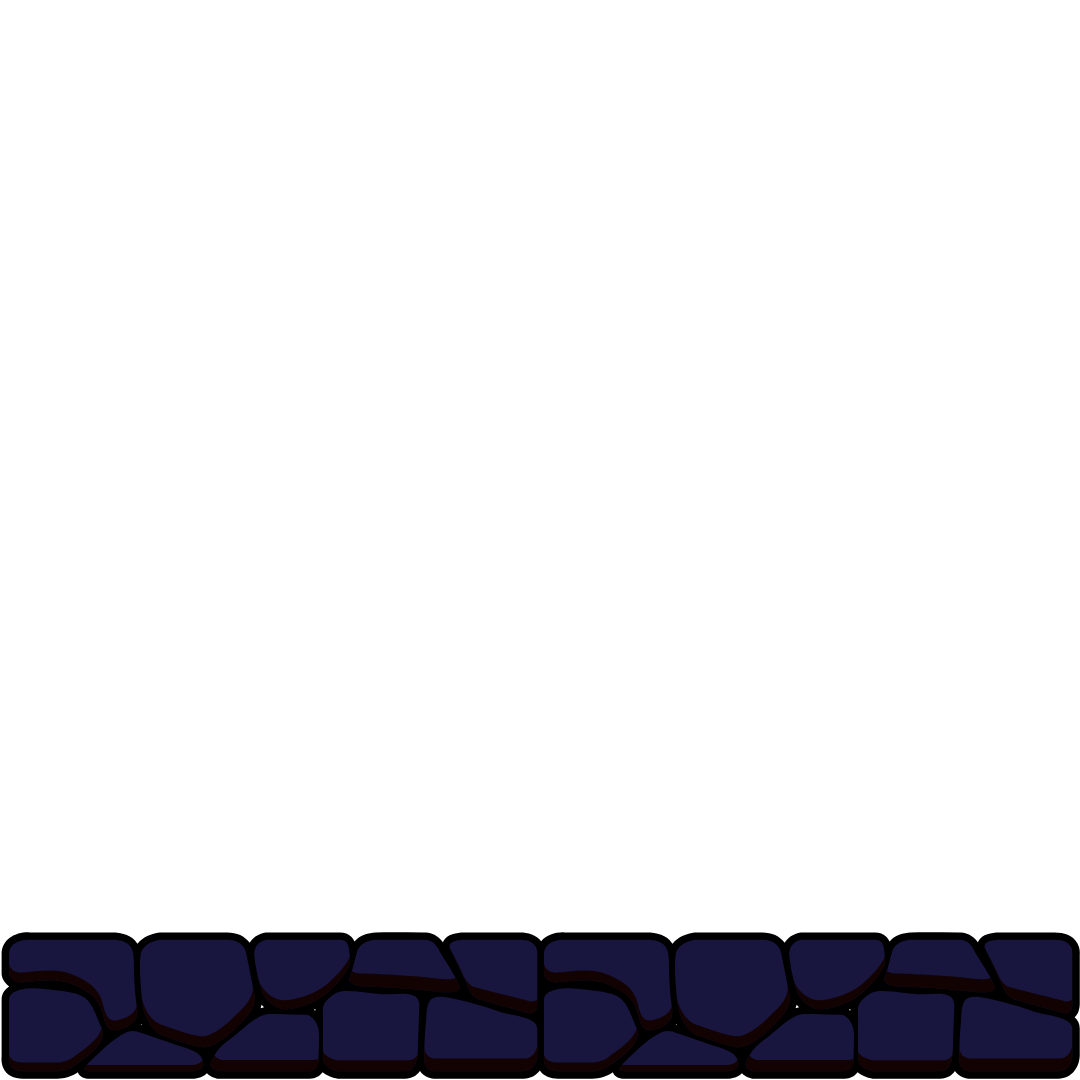
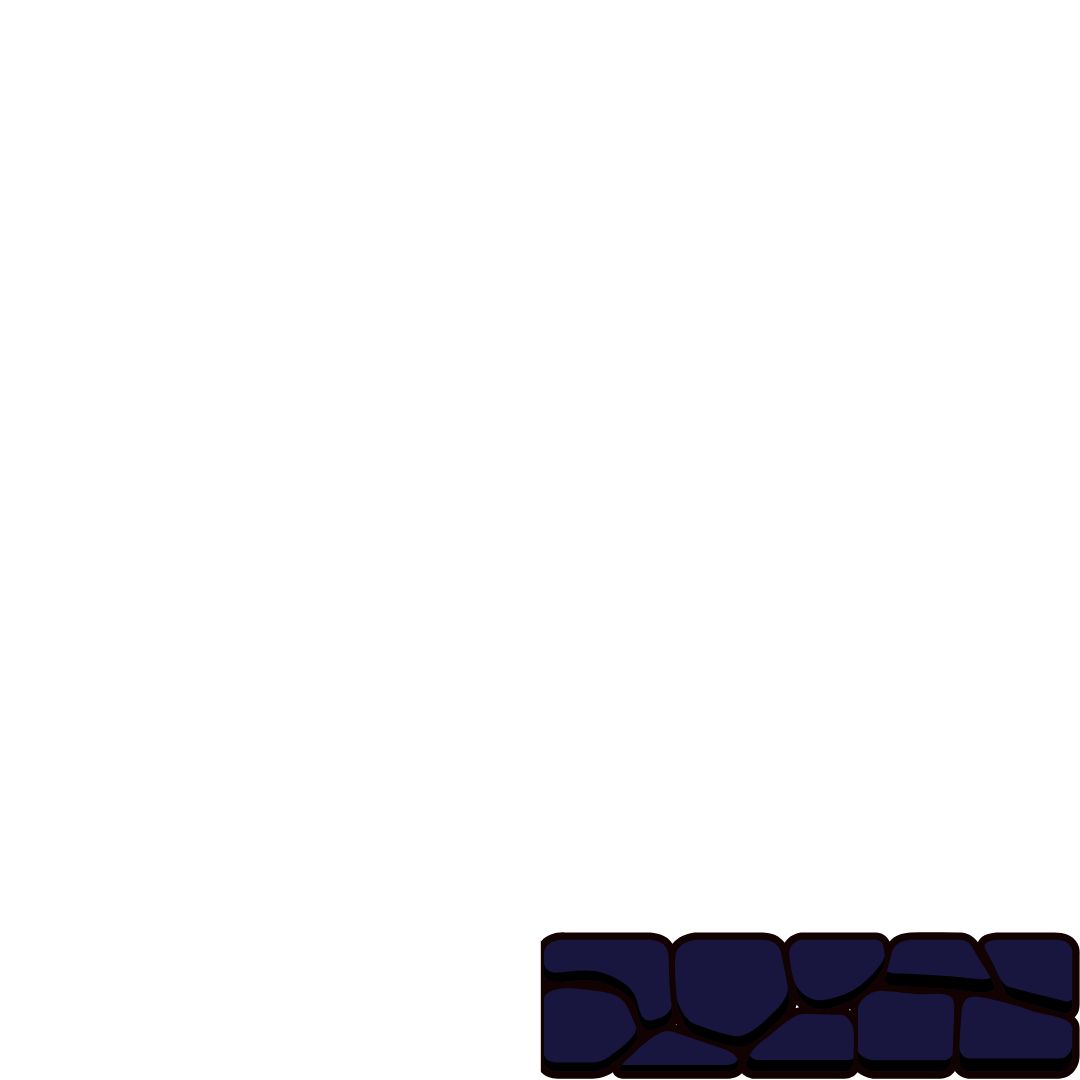
gui

Changed region(s): [[0.0, 0.8556, 0.5194, 1.0]]

diff --git a/telas/tela_game.py b/telas/tela_game.py
@@ -1,6 +1,8 @@
 import arcade
 import math
 import time
+
+import arcade.color
 from classes.classe_jogador import Jogador
 from classes.classe_dialogo import Dialogo
 
@@ -8,6 +10,7 @@ from classes.classe_dialogo import Dialogo
 class TelaGame(arcade.View):
     jogador = None
     dialogo = None
+    pause = False
     fundos = arcade.SpriteList()
 
     def __init__(self):
@@ -18,24 +21,32 @@ class TelaGame(arcade.View):
 
         self.som_fundo = arcade.load_sound(
             './assets/som_fundo.ogg', False)
-        #self.som_fundo.play(loop=True, speed=0.1, volume=0.5)
+        self.som_fundo.play(loop=True, speed=0.1, volume=0.2)
 
         self.sombra = arcade.Sprite('./assets/sombra.png', 0.4)
-        self.sombra.center_x = self.jogador.jSprite.center_x - 300
+        self.sombra.center_x = self.jogador.jSprite.center_x - 500
         self.sombra.center_y = self.jogador.jSprite.center_y + 50
 
         self.lista_cenario = arcade.SpriteList()
-        distancia_tile = 50
-        for i in range(-50, 150):
-            self.lista_cenario.append(
-                arcade.Sprite(
-                    "./assets/tile1.png",
-                    0.5,
-                    center_x=i*distancia_tile,
-                    center_y=300)
-            )
+        distancia_tile = 250
+        for i in range(-50, 50):
+            if i % 7 == 0:
+                self.lista_cenario.append(
+                    arcade.Sprite(
+                        "./assets/tile1.png",
+                        0.5,
+                        center_x=i*distancia_tile,
+                        center_y=290)
+                )
+            else:
+                self.lista_cenario.append(
+                    arcade.Sprite(
+                        "./assets/tile1.png",
+                        0.5,
+                        center_x=i*distancia_tile,
+                        center_y=100)
+                )
 
-        # self.fundo = arcade.load_texture("./assets/fundo_game.png")
         fundo_imagens = (
             "./assets/fundo_game.png",
             "./assets/fundo_game2.png",
@@ -76,20 +87,46 @@ class TelaGame(arcade.View):
         segundos = int(self.duracao_tempo % 60)
         tempo_texto = f"Tempo: {minutos:02}:{segundos:02}"
 
-        self.lista_cenario.draw()
         self.fundos.draw()
+        self.lista_cenario.draw()
 
+        # ===================== GUI ========================
         arcade.draw_text(tempo_texto,
                          self.camera.position[0] + self.window.width - 150,
                          self.camera.position[1] + self.window.height - 50,
-                         arcade.color.WHITE, 20,
+                         arcade.color.GRAY, 20,
                          anchor_x="center",
                          anchor_y="center")
+        arcade.draw_arc_filled(
+            self.camera.position[0] + self.window.width/8,
+            self.camera.position[1] + self.window.height/1.15,
+            150, 150,
+            arcade.color.RED,
+            0, self.jogador.vida
+        )
+        arcade.draw_arc_outline(
+            self.camera.position[0] + self.window.width/8,
+            self.camera.position[1] + self.window.height/1.15,
+            150, 150,
+            arcade.color.GRAY,
+            0, self.jogador.vidaTotal, 7
+        )
+        arcade.draw_texture_rectangle(
+            self.camera.position[0] + self.window.width/8,
+            self.camera.position[1] + self.window.height/1.15,
+            200, 200,
+            arcade.load_texture(
+                "./assets/personagem_avatar.png")
+            )
 
+        # ===================== GUI ========================
         self.camera.use()
         self.sombra.draw()
         self.jogador.draw()
-        self.dialogo.draw(self.camera.position[0]+self.window.width/4, self.camera.position[1]+50, self.window.width/2, self.window.height/4)
+        self.dialogo.draw(self.camera.position[0]+self.window.width/4,
+                          self.camera.position[1]+50,
+                          self.window.width/2,
+                          self.window.height/4)
 
     def on_update(self, delta_time: float):
         self.jogador.update(delta_time)
@@ -107,12 +144,12 @@ class TelaGame(arcade.View):
 
     def on_key_press(self, tecla: int, modifiers: int):
         if tecla == arcade.key.A:
-            #self.media_player = self.jogador.som_andando.play(loop=True)
+            self.media_player = self.jogador.som_andando.play(loop=True)
             self.jogador.jDirecao = -1
             self.jogador.jSprite.change_x = -self.jogador.velocidade_movimento
 
         if tecla == arcade.key.D:
-            #self.media_player = self.jogador.som_andando.play(loop=True)
+            self.media_player = self.jogador.som_andando.play(loop=True)
             self.jogador.jDirecao = 1
             self.jogador.jSprite.change_x = self.jogador.velocidade_movimento
 
@@ -120,29 +157,31 @@ class TelaGame(arcade.View):
             self.jogador.jSprite.change_y = self.jogador.velocidade_pulo
 
     def on_key_release(self, tecla: int, _modifiers: int):
-        if tecla == arcade.key.A or tecla == arcade.key.D:
-            #self.media_player.pause()
-            self.jogador.jSprite.change_x = 0
-        if tecla == arcade.key.W or tecla == arcade.key.S:
-            self.jogador.jSprite.change_y = 0
-        if tecla == arcade.key.ESCAPE:
-            self.window.show_view(self.window.tela_menu)
-        if tecla == arcade.key.O:
-            self.window.auto_save.posicao_jogadorX = (
-                self.jogador.jSprite.center_x)
-            self.window.auto_save.posicao_jogadorY = (
-                self.jogador.jSprite.center_y)
-            self.window.auto_save.tempo_duracao = self.duracao_tempo
+        if not self.pause:
+            if tecla == arcade.key.A or tecla == arcade.key.D:
+                self.media_player.pause()
+                self.jogador.jSprite.change_x = 0
+            if tecla == arcade.key.W or tecla == arcade.key.S:
+                self.jogador.jSprite.change_y = 0
+            if tecla == arcade.key.ESCAPE:
+                self.window.show_view(self.window.tela_menu)
+            if tecla == arcade.key.O:
+                self.window.auto_save.posicao_jogadorX = (
+                    self.jogador.jSprite.center_x)
+                self.window.auto_save.posicao_jogadorY = (
+                    self.jogador.jSprite.center_y)
+                self.window.auto_save.tempo_duracao = self.duracao_tempo
 
-            self.window.auto_save.save()
-            print("Jogo salvo com sucesso!")
+                self.window.auto_save.save()
+                print("Jogo salvo com sucesso!")
         if tecla == arcade.key.SPACE:
             self.dialogo.remover_dialogo()
+            self.pause = False
 
     def move_camera(self):
         position = (
             self.jogador.jSprite.center_x - self.camera.viewport_width / 2,
-            self.jogador.jSprite.center_y - 130,
+            self.jogador.jSprite.center_y - 200,
         )
         self.camera.move_to(position, speed=0.1)
 
@@ -152,6 +191,7 @@ class TelaGame(arcade.View):
         if self.sombra.collides_with_point((x, y)):
             self.dialogo.incluir_dialogo("Aiii.. senti um arrepio! Acho melhor ir pelo outro lado.")
             self.sombra.update()
+            self.jogador.vida -= 10
             self.jogador.jSprite.center_x += 30
             return None
 

diff --git a/classes/classe_jogador.py b/classes/classe_jogador.py
@@ -9,6 +9,8 @@ class Jogador():
     velocidade_movimento = None
     som_andando = None
     fisica = None
+    vida = 100
+    vidaTotal = 100
 
     def __init__(self, load_posicao_X, load_posicao_Y):
         self.som_andando = arcade.load_sound(
@@ -30,7 +32,7 @@ class Jogador():
             arcade.load_texture("./assets/personagem_idle.png",
                                 flipped_horizontally=True)
                                 )
-        self.jSprite.scale = 0.5
+        self.jSprite.scale = 0.4
         self.jDirecao = 1
 
         if (load_posicao_X is not None and
@@ -38,13 +40,13 @@ class Jogador():
             self.jSprite.center_x = load_posicao_X
             self.jSprite.center_y = load_posicao_Y
         else:
-            self.jSprite.center_x = 50
+            self.jSprite.center_x = 500
             self.jSprite.center_y = 100
 
         self.j = arcade.SpriteList()
         self.j.append(self.jSprite)
         self.velocidade_movimento = 3
-        self.velocidade_pulo = 8
+        self.velocidade_pulo = 10
 
     def adiciona_fisica(self, lista_obstaculos):
         self.fisica = arcade.PhysicsEnginePlatformer(

diff --git a/classes/classe_dialogo.py b/classes/classe_dialogo.py
@@ -32,8 +32,16 @@ class Dialogo():
 
             arcade.draw_text(
                 self.texto[0],
-                x+300, y+100,
+                x+width/3.5, y+height/2,
                 arcade.color.BLACK, 15,
+                width,
+                anchor_x="left",
+                anchor_y="baseline"
+                )
+            arcade.draw_text(
+                "Aperte ESPAÇO.",
+                x+width/1.35, y+height/4,
+                arcade.color.GRAY_ASPARAGUS, 12,
                 width,
                 anchor_x="left",
                 anchor_y="baseline"
